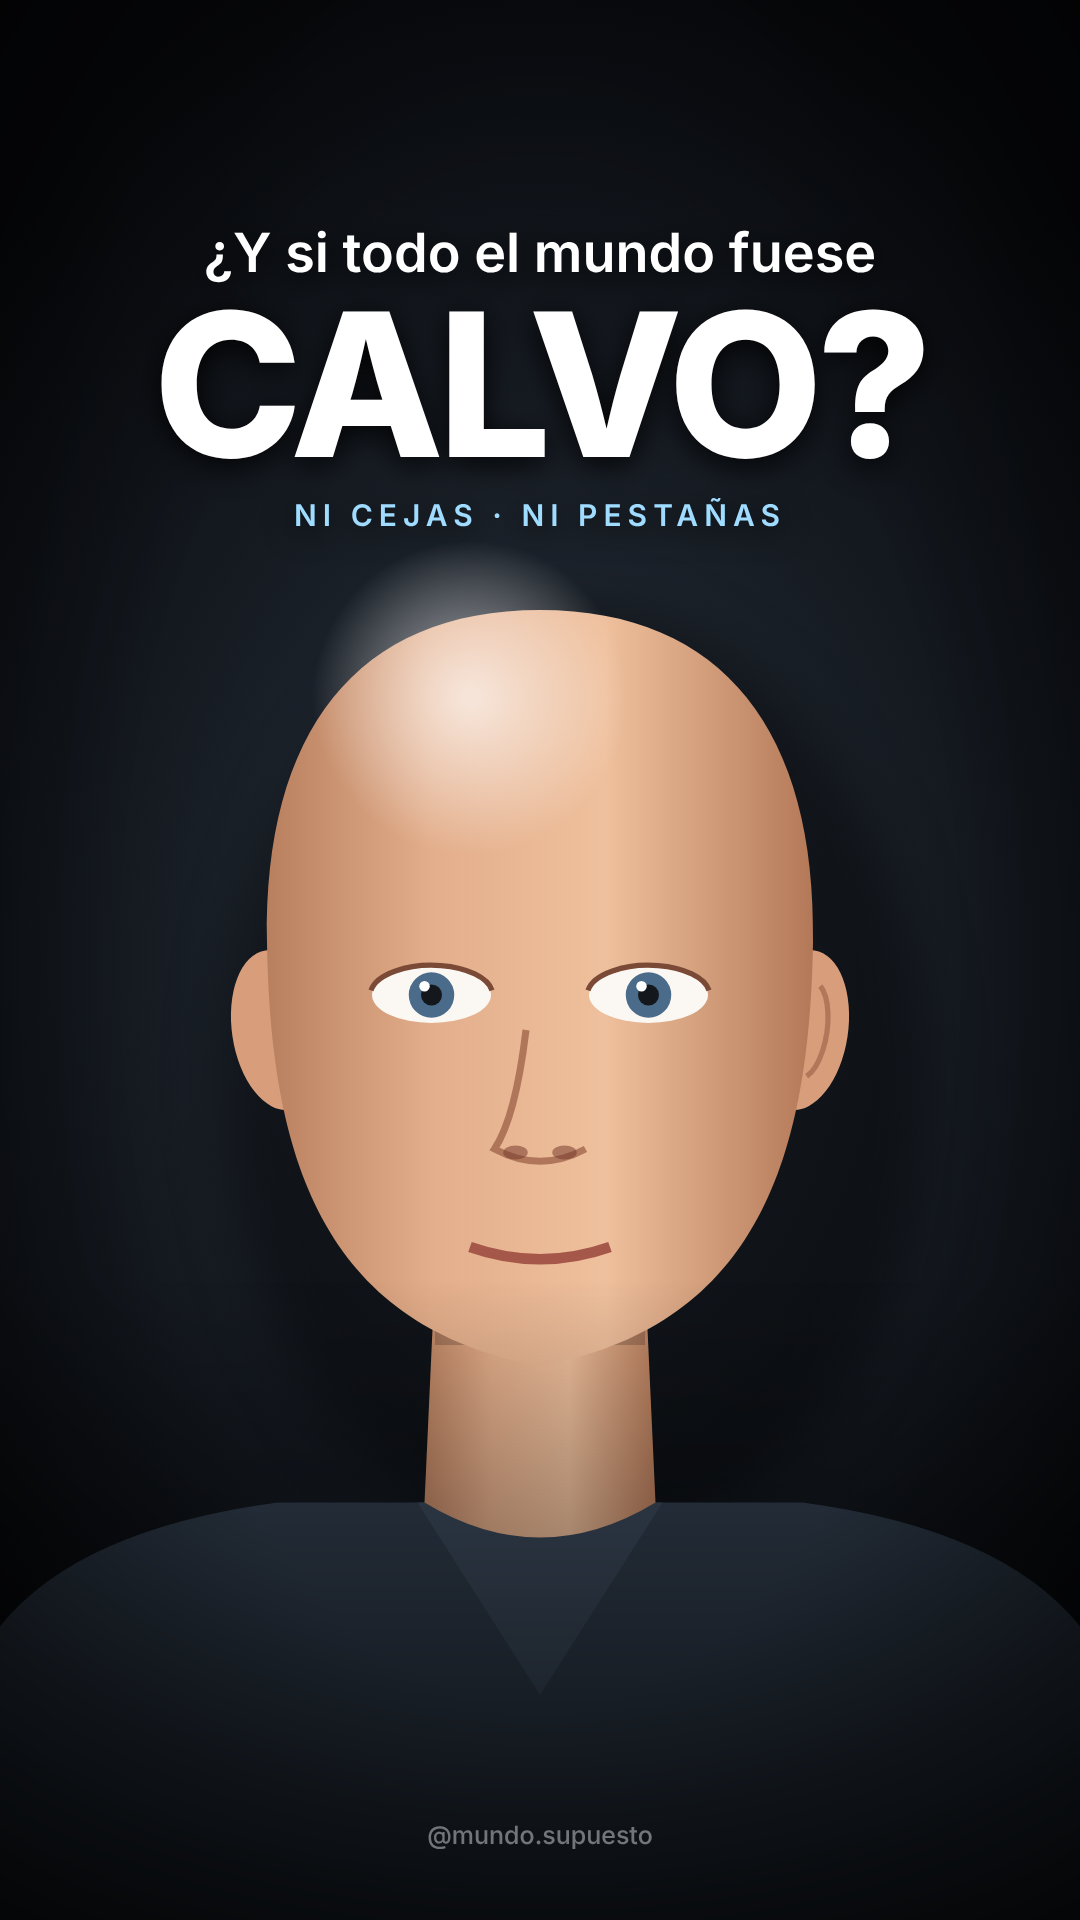
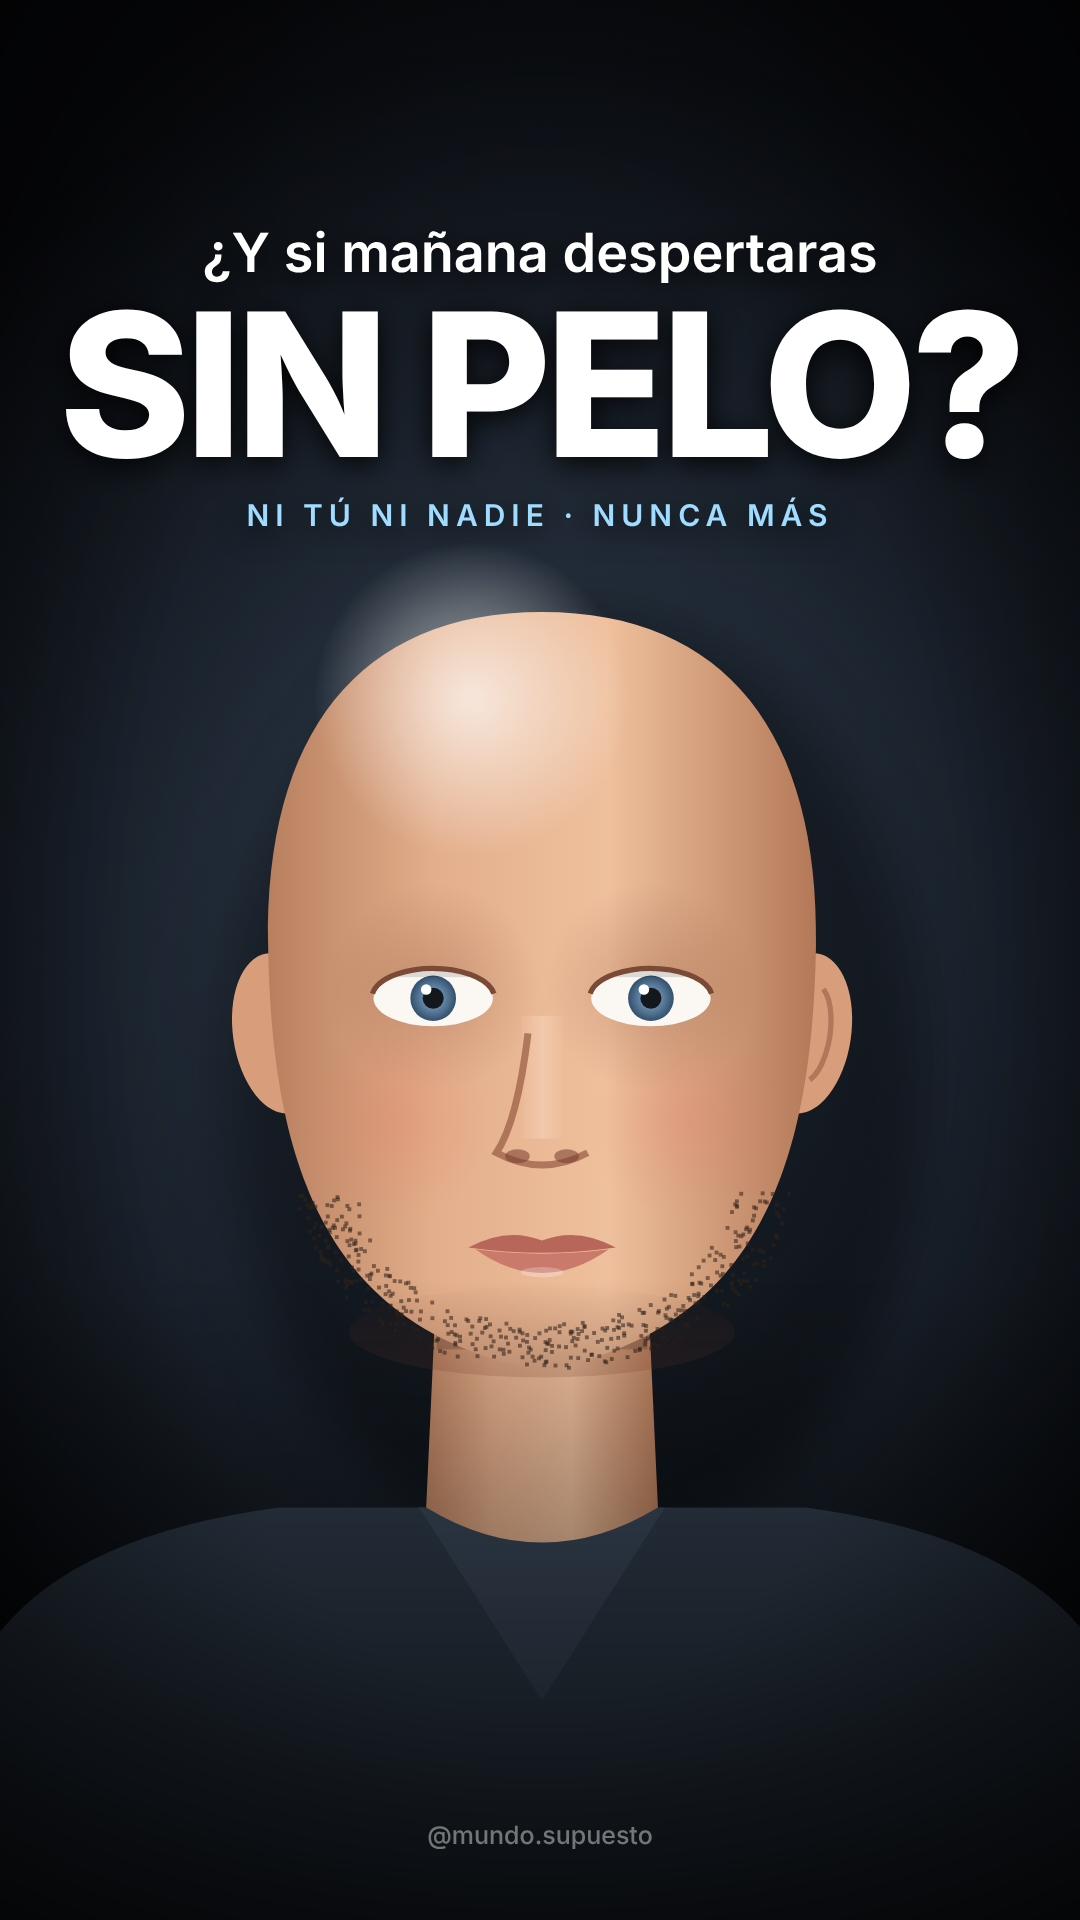
calvos v2: arregla error de parpadeo que estropeaba el render
Claude-Session: https://claude.ai/code/session_01FgZK386kKeQpy1Cb9CVWWu

diff --git a/quiz-video/animado/calvos/_plantilla.html b/quiz-video/animado/calvos/_plantilla.html
@@ -65,11 +65,11 @@ function cabeza() {
   // ojos
   const parp = S.parp;
   for (const s of [-1, 1]) { const ex = s * 62, ey = -440;
-    g.save(); g.beginPath(); g.ellipse(ex, ey, 34, 16 * (1 - parp), 0, 0, 7); g.clip(); g.fillStyle = "#fbf7f2"; g.fillRect(ex - 40, ey - 20, 80, 40);
+    g.save(); g.beginPath(); g.ellipse(ex, ey, 34, Math.max(0.5, 16 * (1 - parp)), 0, 0, 7); g.clip(); g.fillStyle = "#fbf7f2"; g.fillRect(ex - 40, ey - 20, 80, 40);
     if (S.rojo > 0.01) { g.strokeStyle = `rgba(220,60,60,${(0.6 * S.rojo).toFixed(3)})`; g.lineWidth = 1.5; for (let k = 0; k < 5; k++) { g.beginPath(); g.moveTo(ex + s * 30, ey + (k - 2) * 4); g.lineTo(ex + s * 14, ey + (k - 2) * 2); g.stroke(); } }
     const ox = S.mira * 10; const ig = g.createRadialGradient(ex + ox, ey, 2, ex + ox, ey, 13); ig.addColorStop(0, "#7fa6c8"); ig.addColorStop(1, "#33506d"); g.fillStyle = ig; g.beginPath(); g.arc(ex + ox, ey, 13, 0, 7); g.fill(); g.fillStyle = "#14181d"; g.beginPath(); g.arc(ex + ox, ey, 6, 0, 7); g.fill(); g.fillStyle = "#fff"; g.beginPath(); g.arc(ex + ox - 4, ey - 5, 3, 0, 7); g.fill();
     g.fillStyle = "rgba(0,0,0,0.12)"; g.fillRect(ex - 40, ey - 20, 80, 8); g.restore();
-    if (parp > 0.05) { g.fillStyle = "#e0a986"; g.beginPath(); g.ellipse(ex, ey, 35, 17, 0, Math.PI, 0); g.lineTo(ex + 35, ey); g.ellipse(ex, ey, 35, 17 * (1 - 2 * parp), 0, 0, Math.PI, true); g.fill(); }
+    if (parp > 0.05) { g.fillStyle = "#e0a986"; g.beginPath(); g.ellipse(ex, ey, 35, 17, 0, Math.PI, 0); g.lineTo(ex + 35, ey); g.ellipse(ex, ey, 35, Math.max(0.5, 17 * (1 - 2 * parp)), 0, 0, Math.PI, true); g.fill(); }
     g.strokeStyle = "#7a4a36"; g.lineWidth = 3; g.beginPath(); g.ellipse(ex, ey, 35, 17, 0, Math.PI * 1.05, Math.PI * 1.95); g.stroke();
     // pestañas
     if (P > 0.01) { g.strokeStyle = `rgba(30,20,16,${P.toFixed(3)})`; g.lineWidth = 2.5; for (let k = 0; k < 9; k++) { const a = Math.PI * (1.12 + k * 0.095); const x = ex + Math.cos(a) * 35, y = ey + Math.sin(a) * 17; g.beginPath(); g.moveTo(x, y); g.lineTo(x + Math.cos(a) * 10, y + Math.sin(a) * 12 - 3); g.stroke(); } }
@@ -93,7 +93,7 @@ function cabeza() {
 }
 function frame() {
   const t = S.t;
-  g.clearRect(0, 0, 1080, 1920);
+  cv.width = 1080; g.lineCap = "butt";
   const wv = t * 0.35; g.save(); g.translate(540 + 6 * Math.sin(wv), 1100 + 4 * Math.cos(wv * 1.3)); g.scale(S.z * (1 + 0.012 * Math.sin(wv * 0.8)), S.z * (1 + 0.012 * Math.sin(wv * 0.8))); g.translate(-S.cx, -S.cy);
   { const rl = g.createRadialGradient(0, -470, 100, 0, -470, 520); rl.addColorStop(0, "rgba(120,170,230,0.10)"); rl.addColorStop(1, "rgba(120,170,230,0)"); g.fillStyle = rl; g.fillRect(-1500, -2000, 3000, 3000); }
   g.save(); g.translate(20, 30); g.filter = "blur(30px)"; g.globalAlpha = 0.4; g.fillStyle = "#000"; g.beginPath(); g.ellipse(0, -420, 200, 270, 0, 0, 7); g.fill(); g.restore();

diff --git a/quiz-video/animado/calvos/index.html b/quiz-video/animado/calvos/index.html
@@ -65,11 +65,11 @@ function cabeza() {
   // ojos
   const parp = S.parp;
   for (const s of [-1, 1]) { const ex = s * 62, ey = -440;
-    g.save(); g.beginPath(); g.ellipse(ex, ey, 34, 16 * (1 - parp), 0, 0, 7); g.clip(); g.fillStyle = "#fbf7f2"; g.fillRect(ex - 40, ey - 20, 80, 40);
+    g.save(); g.beginPath(); g.ellipse(ex, ey, 34, Math.max(0.5, 16 * (1 - parp)), 0, 0, 7); g.clip(); g.fillStyle = "#fbf7f2"; g.fillRect(ex - 40, ey - 20, 80, 40);
     if (S.rojo > 0.01) { g.strokeStyle = `rgba(220,60,60,${(0.6 * S.rojo).toFixed(3)})`; g.lineWidth = 1.5; for (let k = 0; k < 5; k++) { g.beginPath(); g.moveTo(ex + s * 30, ey + (k - 2) * 4); g.lineTo(ex + s * 14, ey + (k - 2) * 2); g.stroke(); } }
     const ox = S.mira * 10; const ig = g.createRadialGradient(ex + ox, ey, 2, ex + ox, ey, 13); ig.addColorStop(0, "#7fa6c8"); ig.addColorStop(1, "#33506d"); g.fillStyle = ig; g.beginPath(); g.arc(ex + ox, ey, 13, 0, 7); g.fill(); g.fillStyle = "#14181d"; g.beginPath(); g.arc(ex + ox, ey, 6, 0, 7); g.fill(); g.fillStyle = "#fff"; g.beginPath(); g.arc(ex + ox - 4, ey - 5, 3, 0, 7); g.fill();
     g.fillStyle = "rgba(0,0,0,0.12)"; g.fillRect(ex - 40, ey - 20, 80, 8); g.restore();
-    if (parp > 0.05) { g.fillStyle = "#e0a986"; g.beginPath(); g.ellipse(ex, ey, 35, 17, 0, Math.PI, 0); g.lineTo(ex + 35, ey); g.ellipse(ex, ey, 35, 17 * (1 - 2 * parp), 0, 0, Math.PI, true); g.fill(); }
+    if (parp > 0.05) { g.fillStyle = "#e0a986"; g.beginPath(); g.ellipse(ex, ey, 35, 17, 0, Math.PI, 0); g.lineTo(ex + 35, ey); g.ellipse(ex, ey, 35, Math.max(0.5, 17 * (1 - 2 * parp)), 0, 0, Math.PI, true); g.fill(); }
     g.strokeStyle = "#7a4a36"; g.lineWidth = 3; g.beginPath(); g.ellipse(ex, ey, 35, 17, 0, Math.PI * 1.05, Math.PI * 1.95); g.stroke();
     // pestañas
     if (P > 0.01) { g.strokeStyle = `rgba(30,20,16,${P.toFixed(3)})`; g.lineWidth = 2.5; for (let k = 0; k < 9; k++) { const a = Math.PI * (1.12 + k * 0.095); const x = ex + Math.cos(a) * 35, y = ey + Math.sin(a) * 17; g.beginPath(); g.moveTo(x, y); g.lineTo(x + Math.cos(a) * 10, y + Math.sin(a) * 12 - 3); g.stroke(); } }
@@ -93,7 +93,7 @@ function cabeza() {
 }
 function frame() {
   const t = S.t;
-  g.clearRect(0, 0, 1080, 1920);
+  cv.width = 1080; g.lineCap = "butt";
   const wv = t * 0.35; g.save(); g.translate(540 + 6 * Math.sin(wv), 1100 + 4 * Math.cos(wv * 1.3)); g.scale(S.z * (1 + 0.012 * Math.sin(wv * 0.8)), S.z * (1 + 0.012 * Math.sin(wv * 0.8))); g.translate(-S.cx, -S.cy);
   { const rl = g.createRadialGradient(0, -470, 100, 0, -470, 520); rl.addColorStop(0, "rgba(120,170,230,0.10)"); rl.addColorStop(1, "rgba(120,170,230,0)"); g.fillStyle = rl; g.fillRect(-1500, -2000, 3000, 3000); }
   g.save(); g.translate(20, 30); g.filter = "blur(30px)"; g.globalAlpha = 0.4; g.fillStyle = "#000"; g.beginPath(); g.ellipse(0, -420, 200, 270, 0, 0, 7); g.fill(); g.restore();

diff --git a/quiz-video/animado/INSTRUCCIONES.md b/quiz-video/animado/INSTRUCCIONES.md
@@ -251,3 +251,6 @@ Haz SIEMPRE `git pull` antes de empezar y `git commit` + `git push` al acabar.
 - (13-11-2026, calvos) PROHIBIDO empezar con «¿Qué pasaría si…?» → gancho directo en 2.ª persona («¿Y si mañana te
   despertaras sin…? Ni tú, ni nadie. Nunca más.»). PROHIBIDO el final tipo «Así que, aunque no lo parezca… Ahora imagina…»
   o preguntas de cierre: acabar con el DATO MÁS SORPRENDENTE dicho con pausa («…que ni los ves.»).
+- (13-11-2026) TRAMPA: una excepción a mitad de frame() en canvas (p. ej. ellipse con radio negativo al parpadear) deja
+  save/clip/filter sin cerrar y estropea TODO el render aunque las capturas sueltas salgan bien. Antes de renderizar,
+  recorrer el timeline entero cada 0,04 s comprobando que no hay errores, y empezar frame() con `cv.width = cv.width`.
